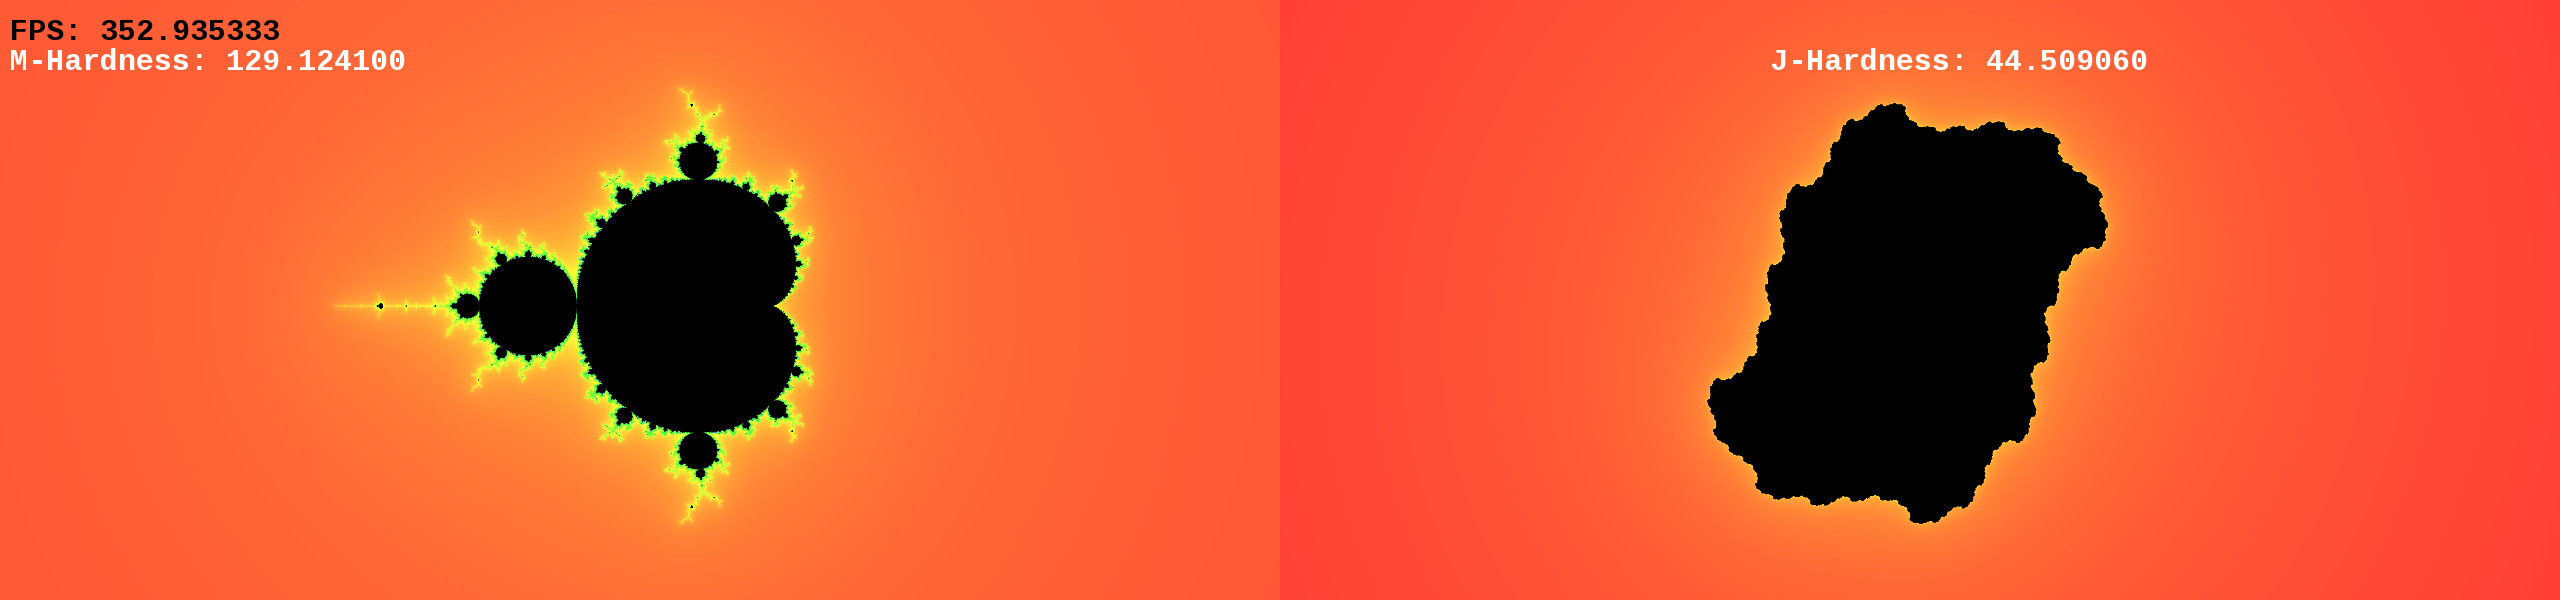
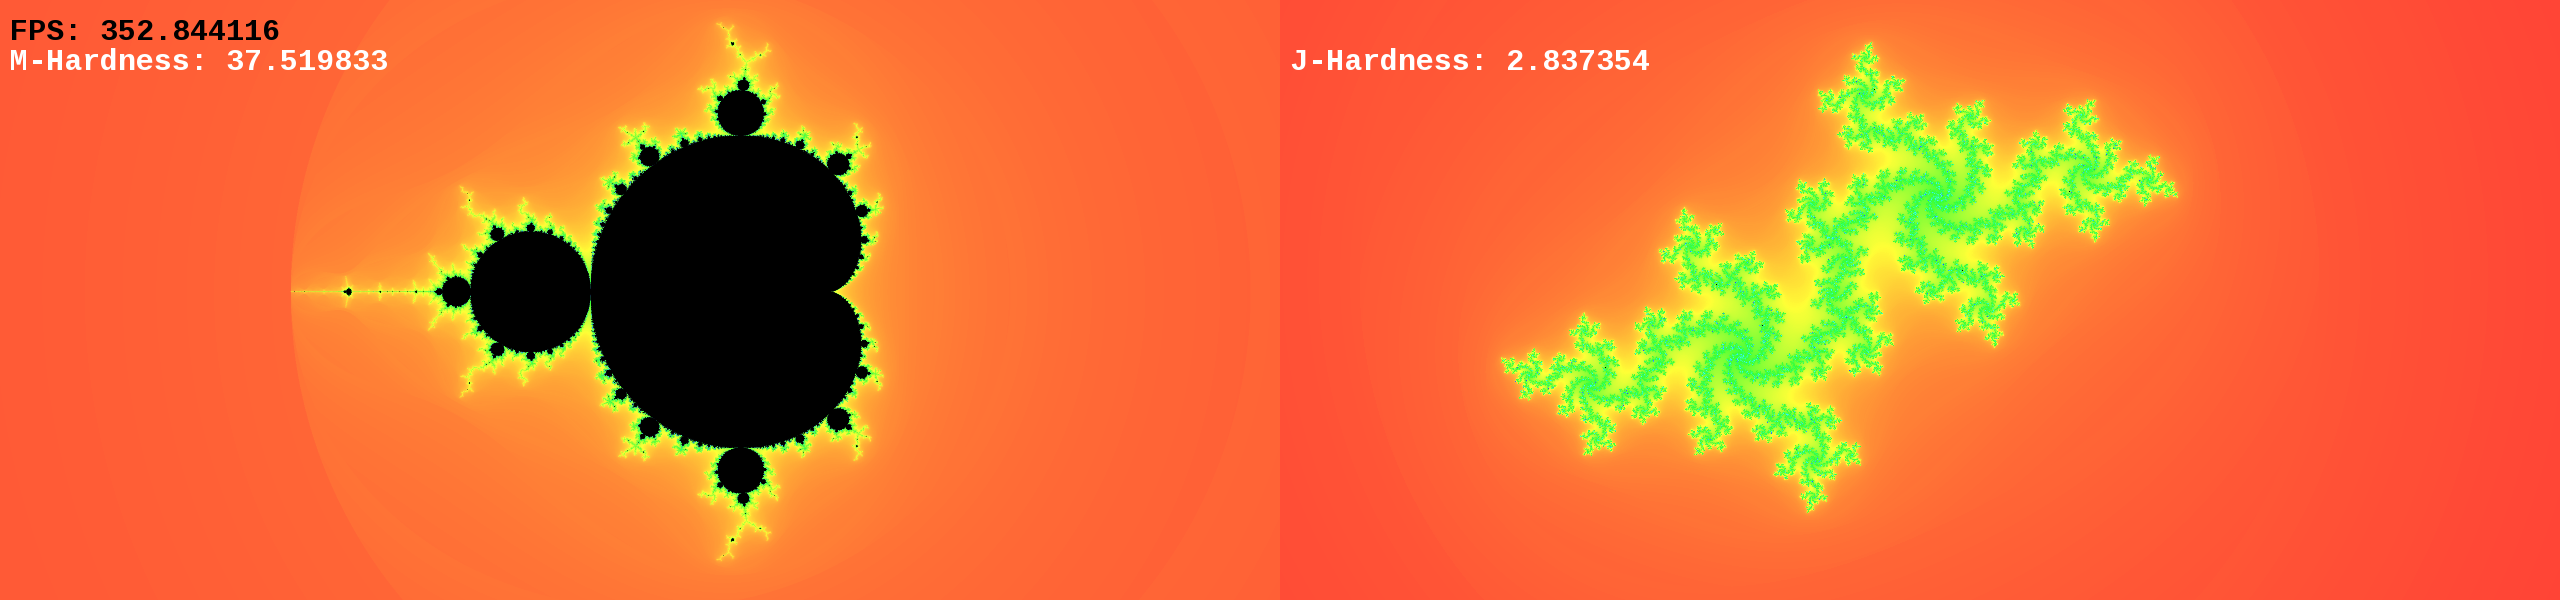
updated some alignment and images

diff --git a/src/main.cpp b/src/main.cpp
@@ -592,6 +592,7 @@ int main() {
                 int height = std::stoi(height_str);
                 if(width >= 100 && height >= 100 && width <= 8192 && height <= 8192) {
                     juliaFractal.set_resolution({width, height});
+                    juliaHardnessDisplay.setPosition({ static_cast<float>(window.getSize().x - juliaFractal.get_resolution().x + 10), 40.f });
                     needsJuliaRender = true;
                 } else {
                     resolutionPickerJulia->getRenderer()->setBorderColor(sf::Color::Yellow);

diff --git a/README.md b/README.md
@@ -235,7 +235,7 @@ _A view showing both Mandelbrot and a linked Julia set_
 
 ## Questions or Issues?
 
-If you find bugs, have ideas for new features, or run into problems, please let us know!
+If you find bugs, have ideas for new features, or run into problems, please let me know!
 
 *   **Report Issues Here:** [https://github.com/NeKon69/MandlebrotSetSFML/issues](https://github.com/NeKon69/MandlebrotSetSFML/issues)
 *   **Email:** nobodqwe@gmail.com
